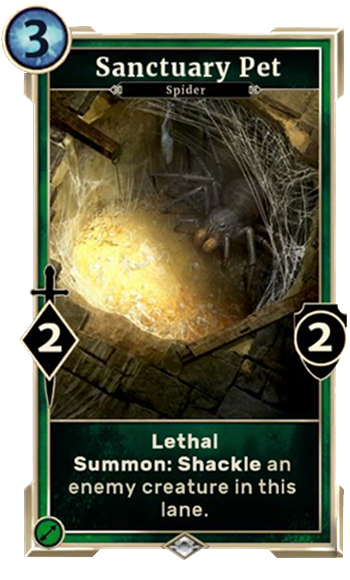
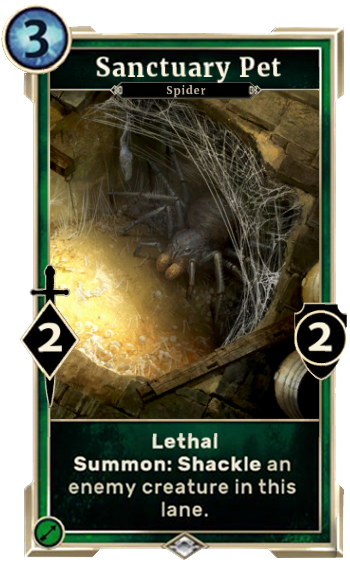
Login retry. Disable menu item while logging. Update SanctuaryPet card and dhash

diff --git a/src/main/kotlin/com/ediposouza/TESLTracker.kt b/src/main/kotlin/com/ediposouza/TESLTracker.kt
@@ -57,9 +57,23 @@ class TESLTracker : App(LoggerView::class) {
     lateinit var trayIcon: TrayIcon
     lateinit var trayPopupMenu: PopupMenu
     lateinit var menuDecks: List<Any>
-    lateinit var loginMenuItems: List<Any>
+    var loginMenuItems: List<Any>? = null
     val legendsIconStream: InputStream by lazy { TESLTracker::class.java.getResourceAsStream(iconName) }
     val mainWidget by lazy { MainWidget() }
+    var logging: Boolean = false
+        set(value) {
+            field = value
+            loginMenuItems?.forEach {
+                if (it is MenuItem) {
+                    it.label = "Logging..".takeIf { value } ?: "Login"
+                    it.isEnabled = !value
+                }
+                if (it is javafx.scene.control.MenuItem) {
+                    it.text = "Logging..".takeIf { value } ?: "Login"
+                    it.isDisable = value
+                }
+            }
+        }
 
     var waitingScreenshotChangeWasLogged = false
 
@@ -78,8 +92,7 @@ class TESLTracker : App(LoggerView::class) {
         CompletableFuture.runAsync {
             if (TESLTrackerAuth.hasLoginCredentialsSaved()) {
                 Logger.d("Starting auto-login")
-                Thread.sleep(500L)
-                DoLogin()
+                doLogin()
             }
             Platform.runLater {
                 mainWidget.isVisible = true
@@ -96,7 +109,7 @@ class TESLTracker : App(LoggerView::class) {
             trayIcon = this
             trayPopupMenu = PopupMenu().apply {
                 loginMenuItems = addMenuItem("Login") {
-                    DoLogin()
+                    doLogin()
                 }
                 menuDecks = addMenu("Decks")
                 menuDecks.forEach {
@@ -140,6 +153,7 @@ class TESLTracker : App(LoggerView::class) {
                         }
                         addMenuItem("Show Arena Tier with Synergy Test") {
                             Platform.runLater {
+                                ArenaState.pickNumber = 2
                                 ArenaState.setTierPicks(Triple(CardPick(Card.DUMMY, 20, listOf(Card.DUMMY, Card.DUMMY)),
                                         CardPick(Card.DUMMY, 20, listOf(Card.DUMMY)), CardPick(Card.DUMMY, 20, listOf(Card.DUMMY))))
                             }
@@ -173,28 +187,45 @@ class TESLTracker : App(LoggerView::class) {
                 }
             }
             popupMenu = trayPopupMenu
-            SwingUtilities.invokeLater {
-                displayMessage(APP_NAME, "$APP_NAME started.", TrayIcon.MessageType.NONE)
+            if (!logging) {
+                SwingUtilities.invokeLater {
+                    displayMessage(APP_NAME, "$APP_NAME started.", TrayIcon.MessageType.NONE)
+                }
             }
         }
     }
 
-    private fun DoLogin() {
+    private fun doLogin(retry: Int = 0) {
+        logging = true
         CompletableFuture.runAsync {
-            if (TESLTrackerAuth.login()) {
-                loginMenuItems.forEach {
-                    if (it is MenuItem) {
-                        it.label = TESLTrackerAuth.userName
+            try {
+                if (TESLTrackerAuth.login()) {
+                    logging = false
+                    Logger.d("Success logged")
+                    loginMenuItems?.forEach {
+                        if (it is MenuItem) {
+                            it.label = TESLTrackerAuth.userName
+                        }
+                        if (it is javafx.scene.control.MenuItem) {
+                            it.text = TESLTrackerAuth.userName
+                        }
                     }
-                    if (it is javafx.scene.control.MenuItem) {
-                        it.text = TESLTrackerAuth.userName
+                    Platform.runLater {
+                        SwingUtilities.invokeLater {
+                            trayIcon.displayMessage(APP_NAME, "Success logged as ${TESLTrackerAuth.userName}", TrayIcon.MessageType.NONE)
+                        }
+                    }
+                    CompletableFuture.runAsync {
+                        updateMenuDecks()
                     }
                 }
-                SwingUtilities.invokeLater {
-                    trayIcon.displayMessage(APP_NAME, "Success logged as ${TESLTrackerAuth.userName}", TrayIcon.MessageType.NONE)
-                }
-                CompletableFuture.runAsync {
-                    updateMenuDecks()
+            } catch (e: Exception) {
+                if (retry < 3) {
+                    Logger.e("Error while logging. Retrying...")
+                    doLogin(retry + 1)
+                } else {
+                    logging = false
+                    Logger.e("Error while logging")
                 }
             }
         }

diff --git a/src/main/kotlin/com/ediposouza/data/DHashCards.kt b/src/main/kotlin/com/ediposouza/data/DHashCards.kt
@@ -445,7 +445,7 @@ object DHashCards {
             "1001111000000111100000001111011111100111001000000" to "brotherhoodslayer",
             "1011000110011100100111011001000100111011001100011" to "eclipsebaroness",
             "1001100010111011100000001001110001101101000111110" to "grandball",
-            "0011011100101011011110010111010000110110001100111" to "sanctuarypet",
+            "0110101001011010001011011000101011110010101010000" to "sanctuarypet",
             "1100100010010011101100000111110111001001101001001" to "skoomaunderboss",
             "0111000010000001000100110010011010001101101000011" to "cicerothebetrayer",
             "0011100001011111100000111100000001111000001111111" to "darkguardian",
